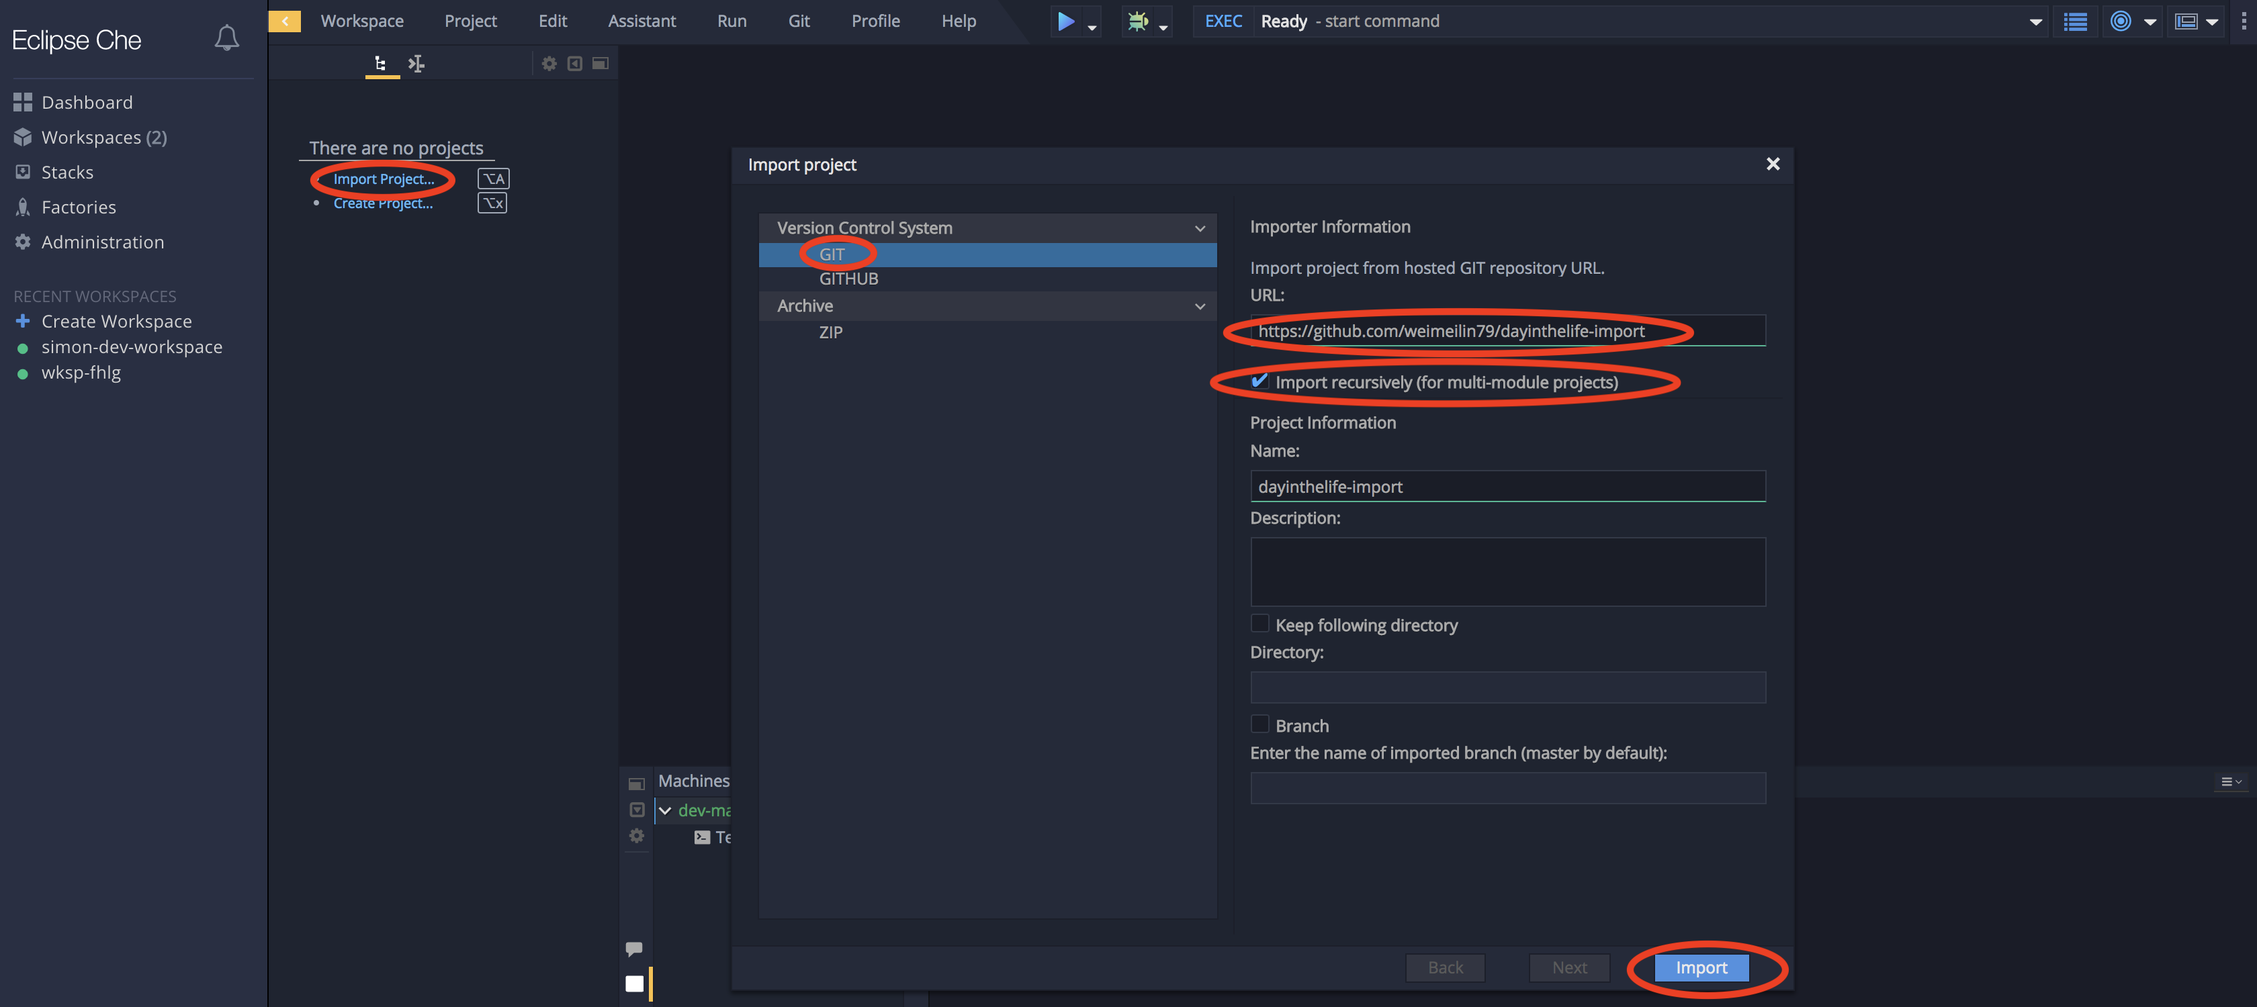
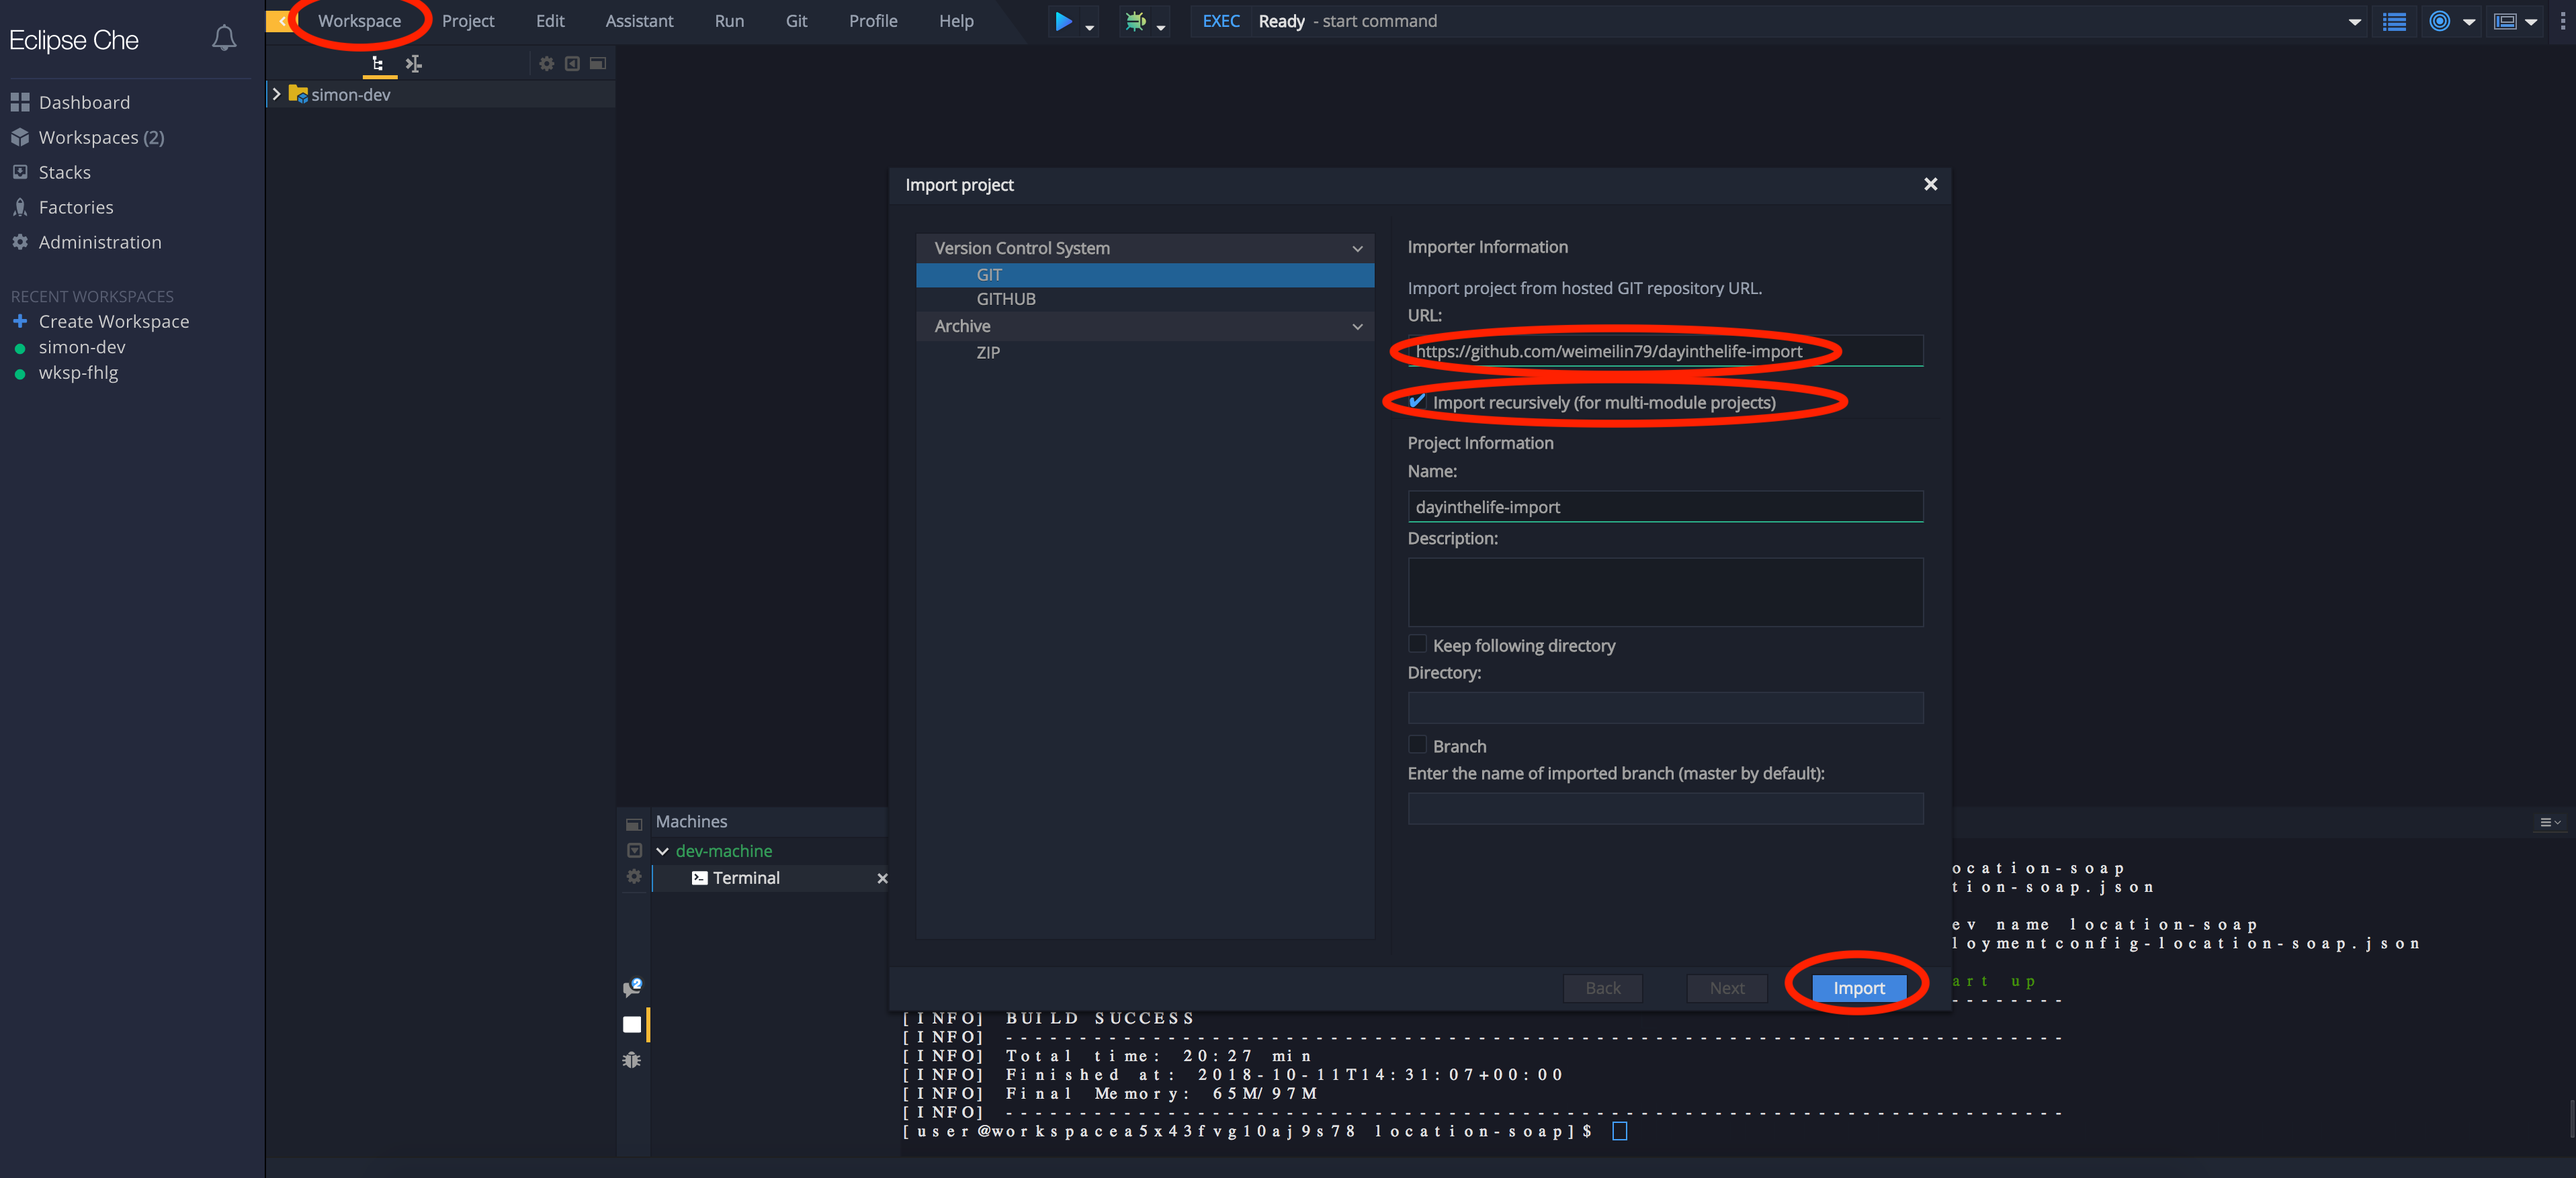
Updated XML syntax

diff --git a/docs/labs/developer-track/lab04/README.md b/docs/labs/developer-track/lab04/README.md
@@ -135,12 +135,12 @@ openshift
 
     ![00-verify-location-soap.png](images/00-verify-location-soap.png "Verify Pod")
 
-1. You can also try to connect to the route link above the pod, and add the `/ws/location?wsdl` URI to the end to ensure the WSDL is available.
+1. You can also try to connect to the route link above the pod, by appending the `/ws/location?wsdl` URI to the end of the link.  This should render the WSDL if the application is running correctly.
 
 
 ### Step 4: Import the skeleton projects from Git and convert them to Maven projects.
 
-1. Click on the **Import Project** link.  A pop-up will appear.
+1. Click on Workspace > Import Project from the main menu.  A pop-up will appear.
 
     ![00-import-project.png](images/00-import-project.png "Import Project")
 
@@ -178,9 +178,9 @@ Once you've received the swagger specification (API contract) from your friendly
 1. Open the `pom.xml` file, and examine and update the plugin entry for `camel-restdsl-swagger-plugin` located at the bottom of the file.  Update both the `specificationUri` and the `outputDirectory` to have the fully qualified path to your project.  You can find this out by opening terminal, relocating to the dayinthelife-import directory and typing `pwd`.  Your plugin entry should look like this once updated:
 
 
-```bash
-      <plugin>
-		  <groupId>org.apache.camel</groupId>
+    ```xml
+          <plugin>
+    		  <groupId>org.apache.camel</groupId>
 		  <artifactId>camel-restdsl-swagger-plugin</artifactId>
 		  <version>2.21.0</version>
 		  <configuration>
@@ -190,7 +190,7 @@ Once you've received the swagger specification (API contract) from your friendly
 		    <outputDirectory>/projects/dayinthelife-import/location-service/src/main/java</outputDirectory>      
 		  </configuration>
 	  </plugin>
-```
+    ```
 
     ![00-terminal.png](images/00-terminal.png)
 
